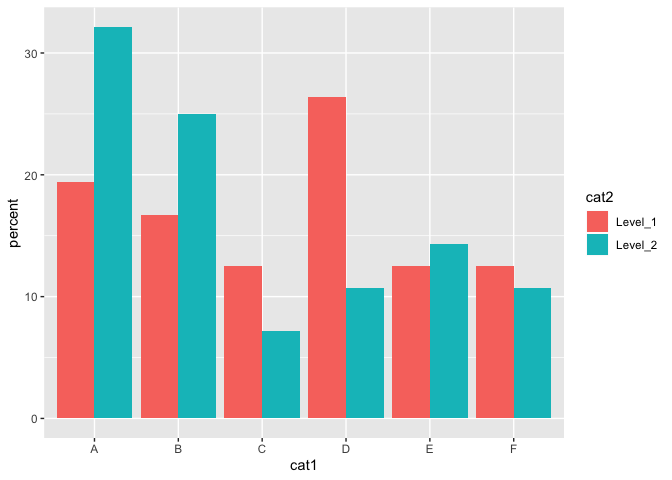
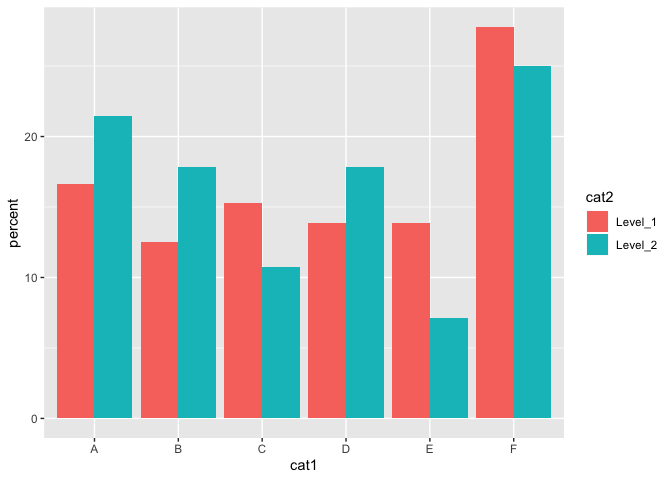
update to grouped bar plot

diff --git a/lab_sessions/some_visualizations/ggplot2_barplot_with_grouping.md b/lab_sessions/some_visualizations/ggplot2_barplot_with_grouping.md
@@ -115,51 +115,51 @@ df %>%
  </thead>
 <tbody>
   <tr>
-   <td style="text-align:left;"> C </td>
-   <td style="text-align:left;"> Level_1 </td>
-  </tr>
-  <tr>
-   <td style="text-align:left;"> B </td>
-   <td style="text-align:left;"> Level_1 </td>
-  </tr>
-  <tr>
-   <td style="text-align:left;"> A </td>
+   <td style="text-align:left;"> E </td>
    <td style="text-align:left;"> Level_2 </td>
   </tr>
   <tr>
-   <td style="text-align:left;"> B </td>
-   <td style="text-align:left;"> Level_2 </td>
+   <td style="text-align:left;"> E </td>
+   <td style="text-align:left;"> Level_1 </td>
   </tr>
   <tr>
    <td style="text-align:left;"> A </td>
    <td style="text-align:left;"> Level_1 </td>
   </tr>
   <tr>
-   <td style="text-align:left;"> D </td>
-   <td style="text-align:left;"> Level_1 </td>
-  </tr>
-  <tr>
-   <td style="text-align:left;"> B </td>
-   <td style="text-align:left;"> Level_2 </td>
-  </tr>
-  <tr>
-   <td style="text-align:left;"> D </td>
+   <td style="text-align:left;"> A </td>
    <td style="text-align:left;"> Level_1 </td>
   </tr>
   <tr>
    <td style="text-align:left;"> F </td>
-   <td style="text-align:left;"> Level_2 </td>
+   <td style="text-align:left;"> Level_1 </td>
   </tr>
   <tr>
    <td style="text-align:left;"> D </td>
    <td style="text-align:left;"> Level_2 </td>
   </tr>
   <tr>
-   <td style="text-align:left;"> A </td>
+   <td style="text-align:left;"> E </td>
+   <td style="text-align:left;"> Level_2 </td>
+  </tr>
+  <tr>
+   <td style="text-align:left;"> F </td>
    <td style="text-align:left;"> Level_1 </td>
   </tr>
   <tr>
-   <td style="text-align:left;"> B </td>
+   <td style="text-align:left;"> A </td>
+   <td style="text-align:left;"> Level_2 </td>
+  </tr>
+  <tr>
+   <td style="text-align:left;"> C </td>
+   <td style="text-align:left;"> Level_2 </td>
+  </tr>
+  <tr>
+   <td style="text-align:left;"> C </td>
+   <td style="text-align:left;"> Level_1 </td>
+  </tr>
+  <tr>
+   <td style="text-align:left;"> D </td>
    <td style="text-align:left;"> Level_2 </td>
   </tr>
 </tbody>
@@ -212,18 +212,18 @@ df %>% group_by(cat1, cat2) %>%
 ## # Groups:   cat1 [6]
 ##    cat1  cat2      cnt
 ##    <fct> <fct>   <int>
-##  1 A     Level_1    14
-##  2 A     Level_2     9
-##  3 B     Level_1    12
-##  4 B     Level_2     7
-##  5 C     Level_1     9
-##  6 C     Level_2     2
-##  7 D     Level_1    19
-##  8 D     Level_2     3
-##  9 E     Level_1     9
-## 10 E     Level_2     4
-## 11 F     Level_1     9
-## 12 F     Level_2     3
+##  1 A     Level_1    12
+##  2 A     Level_2     6
+##  3 B     Level_1     9
+##  4 B     Level_2     5
+##  5 C     Level_1    11
+##  6 C     Level_2     3
+##  7 D     Level_1    10
+##  8 D     Level_2     5
+##  9 E     Level_1    10
+## 10 E     Level_2     2
+## 11 F     Level_1    20
+## 12 F     Level_2     7
 ```
 
 * To create a crosstab like table you can add the `spread()` function to the end of the pipeline.
@@ -240,12 +240,12 @@ df %>% group_by(cat1, cat2) %>%
 ## # Groups:   cat1 [6]
 ##   cat1  Level_1 Level_2
 ##   <fct>   <int>   <int>
-## 1 A          14       9
-## 2 B          12       7
-## 3 C           9       2
-## 4 D          19       3
-## 5 E           9       4
-## 6 F           9       3
+## 1 A          12       6
+## 2 B           9       5
+## 3 C          11       3
+## 4 D          10       5
+## 5 E          10       2
+## 6 F          20       7
 ```
 
 * Changing the order of the variables in the `group_by()` function will change the order of the rows and columns.
@@ -281,21 +281,21 @@ df %>% group_by(cat2, cat1) %>%
 <tbody>
   <tr>
    <td style="text-align:left;"> Level_1 </td>
-   <td style="text-align:right;"> 14 </td>
    <td style="text-align:right;"> 12 </td>
    <td style="text-align:right;"> 9 </td>
-   <td style="text-align:right;"> 19 </td>
-   <td style="text-align:right;"> 9 </td>
-   <td style="text-align:right;"> 9 </td>
+   <td style="text-align:right;"> 11 </td>
+   <td style="text-align:right;"> 10 </td>
+   <td style="text-align:right;"> 10 </td>
+   <td style="text-align:right;"> 20 </td>
   </tr>
   <tr>
    <td style="text-align:left;"> Level_2 </td>
-   <td style="text-align:right;"> 9 </td>
-   <td style="text-align:right;"> 7 </td>
+   <td style="text-align:right;"> 6 </td>
+   <td style="text-align:right;"> 5 </td>
+   <td style="text-align:right;"> 3 </td>
+   <td style="text-align:right;"> 5 </td>
    <td style="text-align:right;"> 2 </td>
-   <td style="text-align:right;"> 3 </td>
-   <td style="text-align:right;"> 4 </td>
-   <td style="text-align:right;"> 3 </td>
+   <td style="text-align:right;"> 7 </td>
   </tr>
 </tbody>
 </table>
@@ -332,74 +332,74 @@ df %>% group_by(cat1, cat2) %>%
   <tr>
    <td style="text-align:left;"> A </td>
    <td style="text-align:left;"> Level_1 </td>
-   <td style="text-align:right;"> 14 </td>
-   <td style="text-align:right;"> 60.87 </td>
+   <td style="text-align:right;"> 12 </td>
+   <td style="text-align:right;"> 66.67 </td>
   </tr>
   <tr>
    <td style="text-align:left;"> A </td>
    <td style="text-align:left;"> Level_2 </td>
-   <td style="text-align:right;"> 9 </td>
-   <td style="text-align:right;"> 39.13 </td>
+   <td style="text-align:right;"> 6 </td>
+   <td style="text-align:right;"> 33.33 </td>
   </tr>
   <tr>
    <td style="text-align:left;"> B </td>
    <td style="text-align:left;"> Level_1 </td>
-   <td style="text-align:right;"> 12 </td>
-   <td style="text-align:right;"> 63.16 </td>
+   <td style="text-align:right;"> 9 </td>
+   <td style="text-align:right;"> 64.29 </td>
   </tr>
   <tr>
    <td style="text-align:left;"> B </td>
    <td style="text-align:left;"> Level_2 </td>
-   <td style="text-align:right;"> 7 </td>
-   <td style="text-align:right;"> 36.84 </td>
+   <td style="text-align:right;"> 5 </td>
+   <td style="text-align:right;"> 35.71 </td>
   </tr>
   <tr>
    <td style="text-align:left;"> C </td>
    <td style="text-align:left;"> Level_1 </td>
-   <td style="text-align:right;"> 9 </td>
-   <td style="text-align:right;"> 81.82 </td>
+   <td style="text-align:right;"> 11 </td>
+   <td style="text-align:right;"> 78.57 </td>
   </tr>
   <tr>
    <td style="text-align:left;"> C </td>
+   <td style="text-align:left;"> Level_2 </td>
+   <td style="text-align:right;"> 3 </td>
+   <td style="text-align:right;"> 21.43 </td>
+  </tr>
+  <tr>
+   <td style="text-align:left;"> D </td>
+   <td style="text-align:left;"> Level_1 </td>
+   <td style="text-align:right;"> 10 </td>
+   <td style="text-align:right;"> 66.67 </td>
+  </tr>
+  <tr>
+   <td style="text-align:left;"> D </td>
+   <td style="text-align:left;"> Level_2 </td>
+   <td style="text-align:right;"> 5 </td>
+   <td style="text-align:right;"> 33.33 </td>
+  </tr>
+  <tr>
+   <td style="text-align:left;"> E </td>
+   <td style="text-align:left;"> Level_1 </td>
+   <td style="text-align:right;"> 10 </td>
+   <td style="text-align:right;"> 83.33 </td>
+  </tr>
+  <tr>
+   <td style="text-align:left;"> E </td>
    <td style="text-align:left;"> Level_2 </td>
    <td style="text-align:right;"> 2 </td>
-   <td style="text-align:right;"> 18.18 </td>
-  </tr>
-  <tr>
-   <td style="text-align:left;"> D </td>
-   <td style="text-align:left;"> Level_1 </td>
-   <td style="text-align:right;"> 19 </td>
-   <td style="text-align:right;"> 86.36 </td>
-  </tr>
-  <tr>
-   <td style="text-align:left;"> D </td>
-   <td style="text-align:left;"> Level_2 </td>
-   <td style="text-align:right;"> 3 </td>
-   <td style="text-align:right;"> 13.64 </td>
-  </tr>
-  <tr>
-   <td style="text-align:left;"> E </td>
-   <td style="text-align:left;"> Level_1 </td>
-   <td style="text-align:right;"> 9 </td>
-   <td style="text-align:right;"> 69.23 </td>
-  </tr>
-  <tr>
-   <td style="text-align:left;"> E </td>
-   <td style="text-align:left;"> Level_2 </td>
-   <td style="text-align:right;"> 4 </td>
-   <td style="text-align:right;"> 30.77 </td>
+   <td style="text-align:right;"> 16.67 </td>
   </tr>
   <tr>
    <td style="text-align:left;"> F </td>
    <td style="text-align:left;"> Level_1 </td>
-   <td style="text-align:right;"> 9 </td>
-   <td style="text-align:right;"> 75.00 </td>
+   <td style="text-align:right;"> 20 </td>
+   <td style="text-align:right;"> 74.07 </td>
   </tr>
   <tr>
    <td style="text-align:left;"> F </td>
    <td style="text-align:left;"> Level_2 </td>
-   <td style="text-align:right;"> 3 </td>
-   <td style="text-align:right;"> 25.00 </td>
+   <td style="text-align:right;"> 7 </td>
+   <td style="text-align:right;"> 25.93 </td>
   </tr>
 </tbody>
 </table>
@@ -447,3 +447,46 @@ df %>% group_by(cat1, cat2) %>%
 ```
 
 ![](ggplot2_barplot_with_grouping_files/figure-html/unnamed-chunk-10-1.png)<!-- -->
+
+
+#### Adding data values to a chart
+
+* When the bars are stacked within level so all bars are the same height (i.e. 100%) you can do a reasonable visual comparisons within and between bars. However, percentages can mask uneven distribution of counts within a particular category. For instance, `cat1` values `A` and `B` may show a similar distribution of values on `cat2` but they might be 10 times as many values in `A` than `B`.
+
+
+* The `geom_text()` function allows you to add text in an additional layer in a plot. In this case we want to have the counts for each `cat2` of values `Level_1` and `Level_2`.
+
+
+
+```r
+df %>% group_by(cat1, cat2) %>%
+  summarise(cnt=n()) %>% 
+    mutate(percent=cnt/sum(cnt)*100) %>%
+     ggplot(aes(x=cat1, y=percent)) + 
+        geom_bar(stat='identity', aes(fill=cat2)) +
+          geom_text(aes(label=cnt))
+```
+
+![](ggplot2_barplot_with_grouping_files/figure-html/unnamed-chunk-11-1.png)<!-- -->
+
+* The y alignment is set to as the top of each bar with some offset. These can be changed with various parameters, such as `vjust` and `hjust` and the `position_dodge()` function.
+
+
+* However, here we'd like two consistent y values  for the values within each level. One way to do this is to add a `y` value to the `geom_text` aesthetics with a conditional like:
+```
+y=ifelse(cat2=='Level_1',90,10)
+```
+  __N.B.__ Here I have hard coded the two values of y as `10` and `90` - better would be to find the max values of each of the levels and do this as a variable.
+
+
+
+```r
+df %>% group_by(cat1, cat2) %>%
+  summarise(cnt=n()) %>% 
+    mutate(percent=cnt/sum(cnt)*100) %>%
+     ggplot(aes(x=cat1, y=percent)) + 
+        geom_bar(stat='identity', aes(fill=cat2)) +
+          geom_text(aes(label=cnt, y=ifelse(cat2=='Level_1',90,10)))
+```
+
+![](ggplot2_barplot_with_grouping_files/figure-html/unnamed-chunk-12-1.png)<!-- -->
